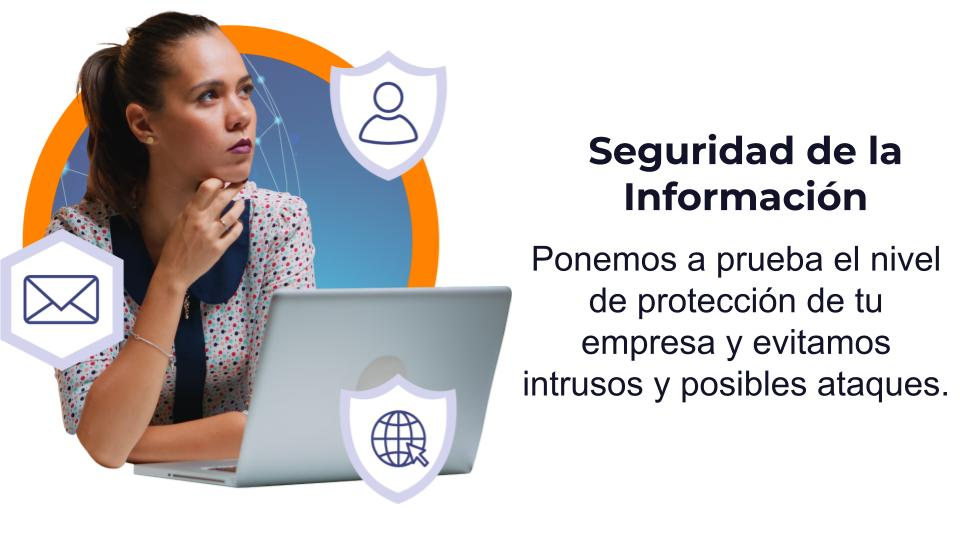
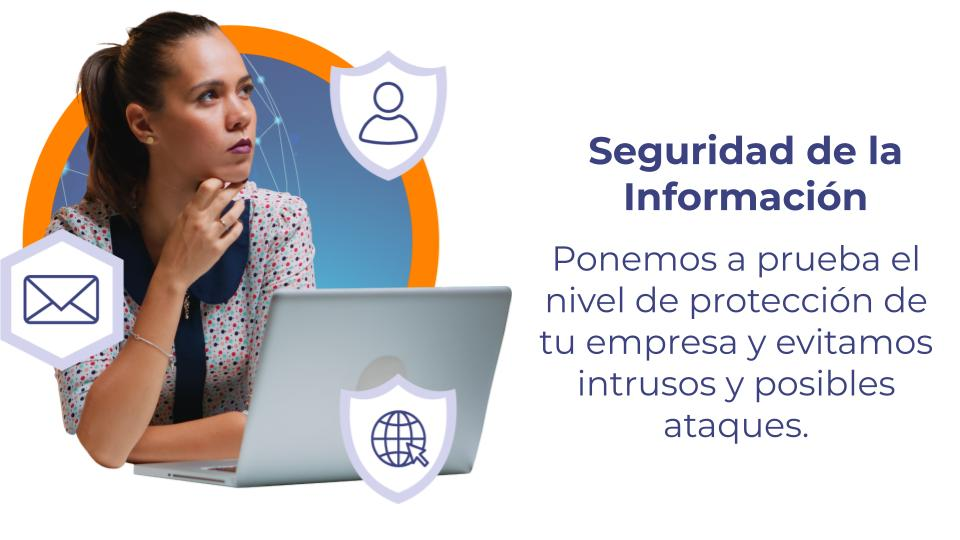
redes

diff --git a/index.html b/index.html
@@ -245,7 +245,7 @@
 							</div>
 						</p>
 					</div>
-					<div class="header-donate-btn" style="position: absolute; bottom: 50px; left: 72%; transform: translateX(-50%);"> 
+					<div class="header-donate-btn" style="position: absolute; bottom: 70px; left: 72%; transform: translateX(-50%);"> 
 						<a class="header-btn" href="Ciberseguridad.html">Mas información</a>
 					</div>
 				</div>

diff --git a/style.css b/style.css
@@ -167,7 +167,6 @@ a.added-new-demo:after {
     margin-bottom: 0;
     text-align: center;
 	transition:0.3s;
-    font-family: "Montserrat-Bold", Montserrat-Bold;
 }
 .zomia_menu ul .sub-menu li:hover>a,
 .zomia_menu ul .sub-menu .sub-menu li:hover>a,
